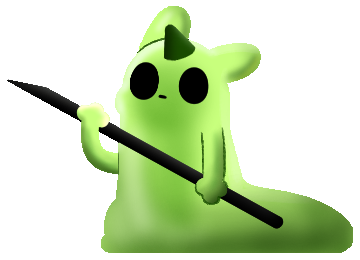
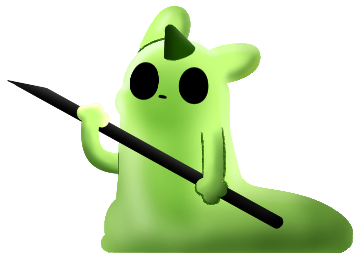
Fixing Jolly horn color

diff --git a/LancerMenu/HornColorPick.cs b/LancerMenu/HornColorPick.cs
@@ -11,6 +11,8 @@ using System.Text;
 using System.Threading.Tasks;
 using UnityEngine;
 using SlugName = SlugcatStats.Name;
+using static LancerRemix.LancerMenu.SelectMenuPatch;
+using System.Globalization;
 
 namespace LancerRemix.LancerMenu
 {
@@ -55,19 +57,19 @@ namespace LancerRemix.LancerMenu
             if (tabWrapper != null) DestroyWrappers();
             tabWrapper = new MenuTabWrapper(owner.menu, owner);
             owner.subObjects.Add(tabWrapper);
-            Vector2 size = new Vector2(270f, 240f);
+            Vector2 size = new Vector2(280f, 180f);
             if (hasBox)
             {
                 var rect = new OpRect(pos, size) { colorEdge = MenuColorEffect.rgbWhite };
                 new UIelementWrapper(tabWrapper, rect);
             }
-            var label = new OpLabel(pos + new Vector2(100f, 180f), new Vector2(140f, 40f), Translate("Horn"), bigText: true) { color = MenuColorEffect.rgbWhite };
+            var label = new OpLabel(pos + new Vector2(15f, 75f), new Vector2(90f, 40f), Translate("Horn"), bigText: true) { color = MenuColorEffect.rgbWhite };
             new UIelementWrapper(tabWrapper, label);
-            var cView = new OpImage(pos + new Vector2(32f, 182f), "square");
+            var cView = new OpImage(pos + new Vector2(42f, 127f), "square");
             new UIelementWrapper(tabWrapper, cView);
-            var cViewRect = new OpRect(pos + new Vector2(30f, 180f), new Vector2(40f, 40f), 0f) { colorEdge = MenuColorEffect.rgbWhite };
+            var cViewRect = new OpRect(pos + new Vector2(40f, 125f), new Vector2(40f, 40f), 0f) { colorEdge = MenuColorEffect.rgbWhite };
             new UIelementWrapper(tabWrapper, cViewRect);
-            cpk = new OpColorPicker(hornColors[player], pos + new Vector2(60f, 20f));
+            cpk = new OpColorPicker(hornColors[player], pos + new Vector2(115f, 15f));
             new UIelementWrapper(tabWrapper, cpk);
             cpk.OnValueUpdate += (config, value, oldValue) => { cView.color = cpk.valueColor; };
             cpk.wrapper.ReloadConfig();
@@ -79,7 +81,12 @@ namespace LancerRemix.LancerMenu
 
         private static void SaveColor() => cpk?.wrapper.SaveConfig();
 
-        private static void ResetColor() => cpk?.wrapper.ResetConfig();
+        private static void ResetColor(SlugName playerClass)
+        {
+            if (cpk == null) return;
+            var basis = LancerEnums.GetBasis(playerClass);
+            cpk.valueColor = LancerDecoration.DefaultHornColor(basis);
+        }
 
         private static void DestroyWrappers()
         {
@@ -114,7 +121,8 @@ namespace LancerRemix.LancerMenu
             JollySetupDialog jollyDialog, SlugName playerClass, int playerNumber, ProcessManager manager, List<string> names)
         {
             orig(self, jollyDialog, playerClass, playerNumber, manager, names);
-            InitializeWrapper(self.pages[0], self.body.litSlider.pos + new Vector2(0f, -120f), playerNumber, true);
+            if (!GetLancerPlayers(playerNumber)) return;
+            InitializeWrapper(self.pages[0], self.body.litSlider.pos + new Vector2(0f, -80f), playerNumber, true);
             self.MutualVerticalButtonBind(cpk.wrapper, self.body.litSlider);
         }
 
@@ -127,8 +135,24 @@ namespace LancerRemix.LancerMenu
 
         private static void JollyResetHornColor(On.JollyCoop.JollyMenu.ColorChangeDialog.orig_Singal orig, ColorChangeDialog self, MenuObject sender, string message)
         {
+            if (message.StartsWith("RESET_COLOR_DIALOG_")
+                && GetLancerPlayers(self.playerNumber))
+            {
+                self.PlaySound(SoundID.MENU_Remove_Level);
+                self.JollyOptions.SetColorsToDefault(LancerEnums.GetLancer(self.playerClass));
+                self.body.color = self.JollyOptions.GetBodyColor();
+                self.body.RGB2HSL();
+                self.face.color = self.JollyOptions.GetFaceColor();
+                self.face.RGB2HSL();
+                if (self.unique != null)
+                {
+                    self.unique.color = self.JollyOptions.GetUniqueColor();
+                    self.unique.RGB2HSL();
+                }
+                ResetColor(self.playerClass);
+                return;
+            }
             orig(self, sender, message);
-            if (message.StartsWith("RESET_COLOR_DIALOG_")) ResetColor();
         }
 
         #endregion Jolly
@@ -137,10 +161,19 @@ namespace LancerRemix.LancerMenu
 
         internal static void OnMMFEnablePatch()
         {
+            On.Menu.SlugcatSelectMenu.CustomColorInterface.ctor += LancerCustomColorInterfaceCtor;
         }
 
         internal static void OnMMFDisablePatch()
         {
+            On.Menu.SlugcatSelectMenu.CustomColorInterface.ctor -= LancerCustomColorInterfaceCtor;
+        }
+
+        private static void LancerCustomColorInterfaceCtor(On.Menu.SlugcatSelectMenu.CustomColorInterface.orig_ctor orig, SlugcatSelectMenu.CustomColorInterface self,
+            Menu.Menu menu, MenuObject owner, Vector2 pos, SlugName slugcatID, List<string> names, List<string> defaultColors)
+        {
+            orig(self, menu, owner, pos, slugcatID, names, defaultColors);
+            if (!SlugcatPageLancer) return;
         }
 
         #endregion MMF

diff --git a/LancerMenu/SelectMenuPatch.cs b/LancerMenu/SelectMenuPatch.cs
@@ -111,6 +111,7 @@ namespace LancerRemix.LancerMenu
         private static SymbolButtonToggle lancerButton;
         private static float lancerTransition = 0f;
         private static float lastLancerTransition = 0f;
+        internal static bool SlugcatPageLancer => slugcatPageLancer;
 
         private static bool IsLancerPage(SlugcatPage page)
             => page is LancerPageNewGame || page is LancerPageContinue;
